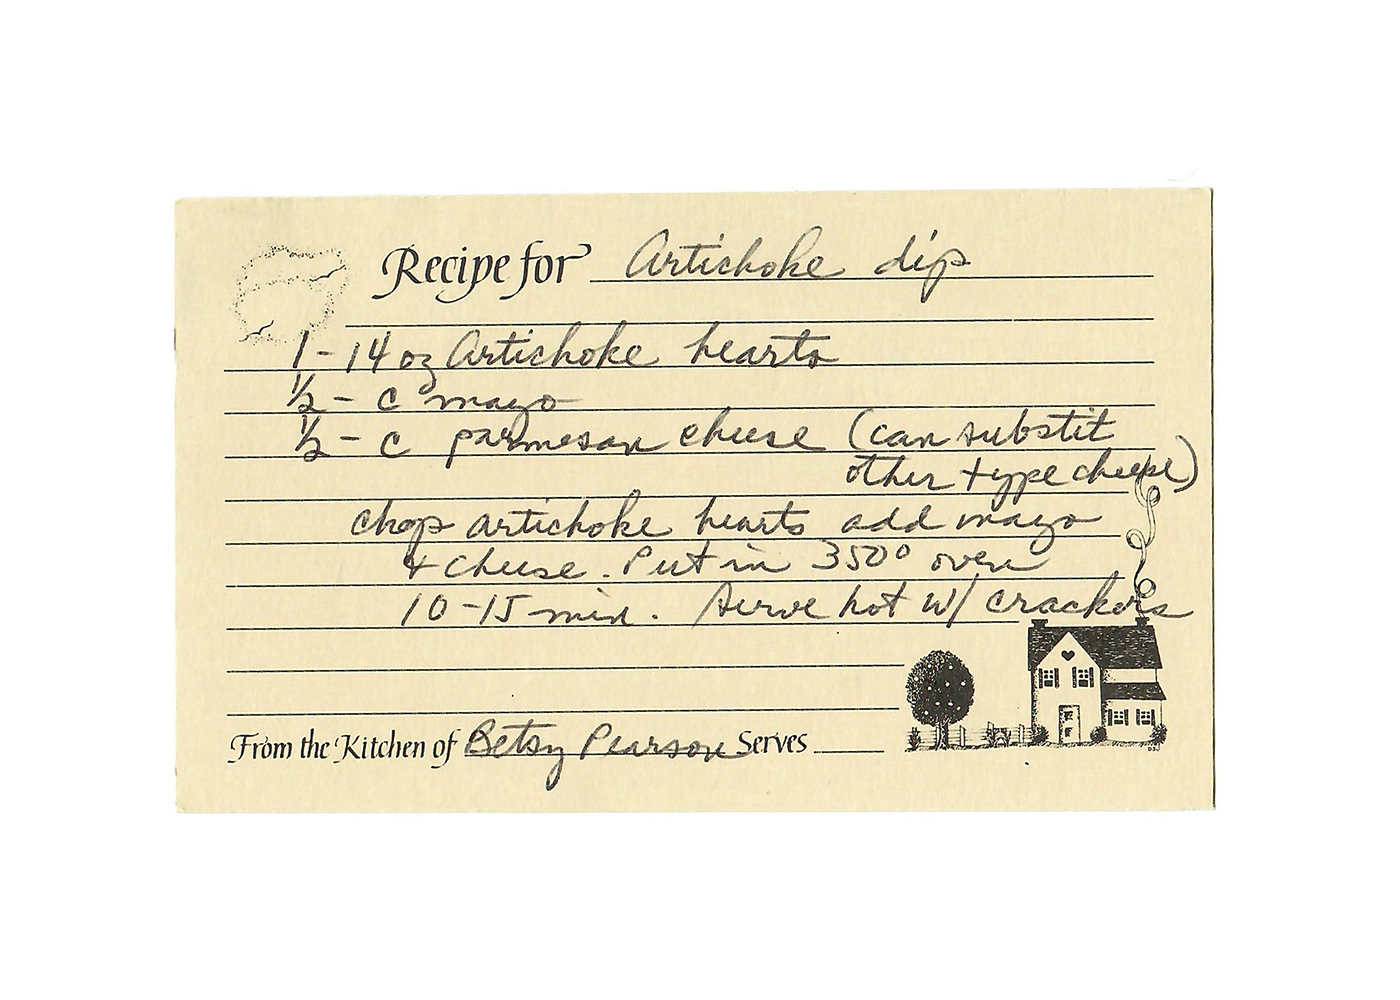
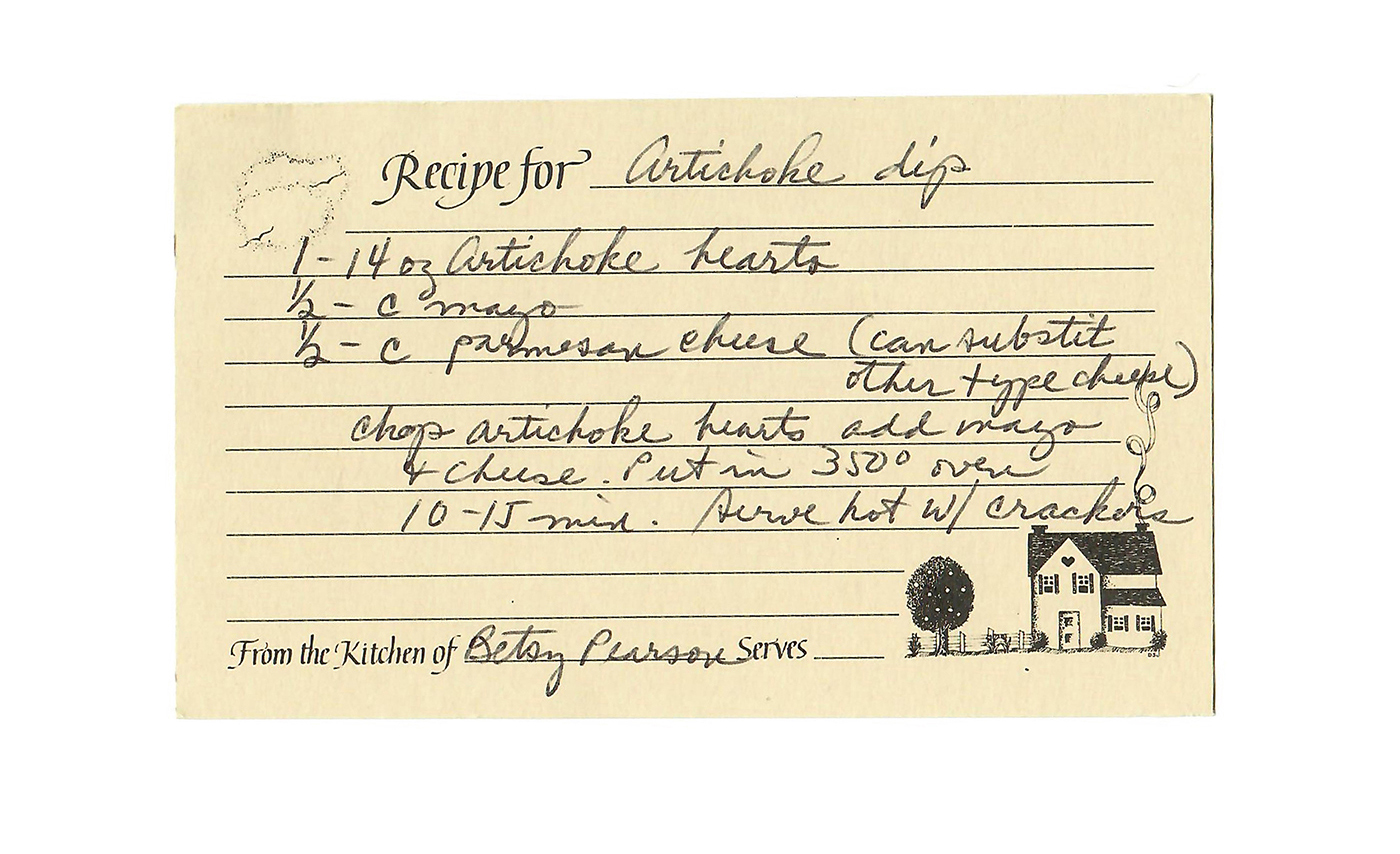
Final tweaks: cropped scans, fixed modal zoom, deploy-ready

Changed region(s): [[0.1229, 0.0913, 0.8907, 0.8525]]

diff --git a/svelte.config.js b/svelte.config.js
@@ -1,9 +1,8 @@
 import adapter from '@sveltejs/adapter-netlify';
-import { vitePreprocess } from '@sveltejs/kit/vite';
+import preprocess from 'svelte-preprocess';
 
-/** @type {import('@sveltejs/kit').Config} */
 const config = {
-	preprocess: vitePreprocess(),
+	preprocess: preprocess(),
 
 	kit: {
 		adapter: adapter()
